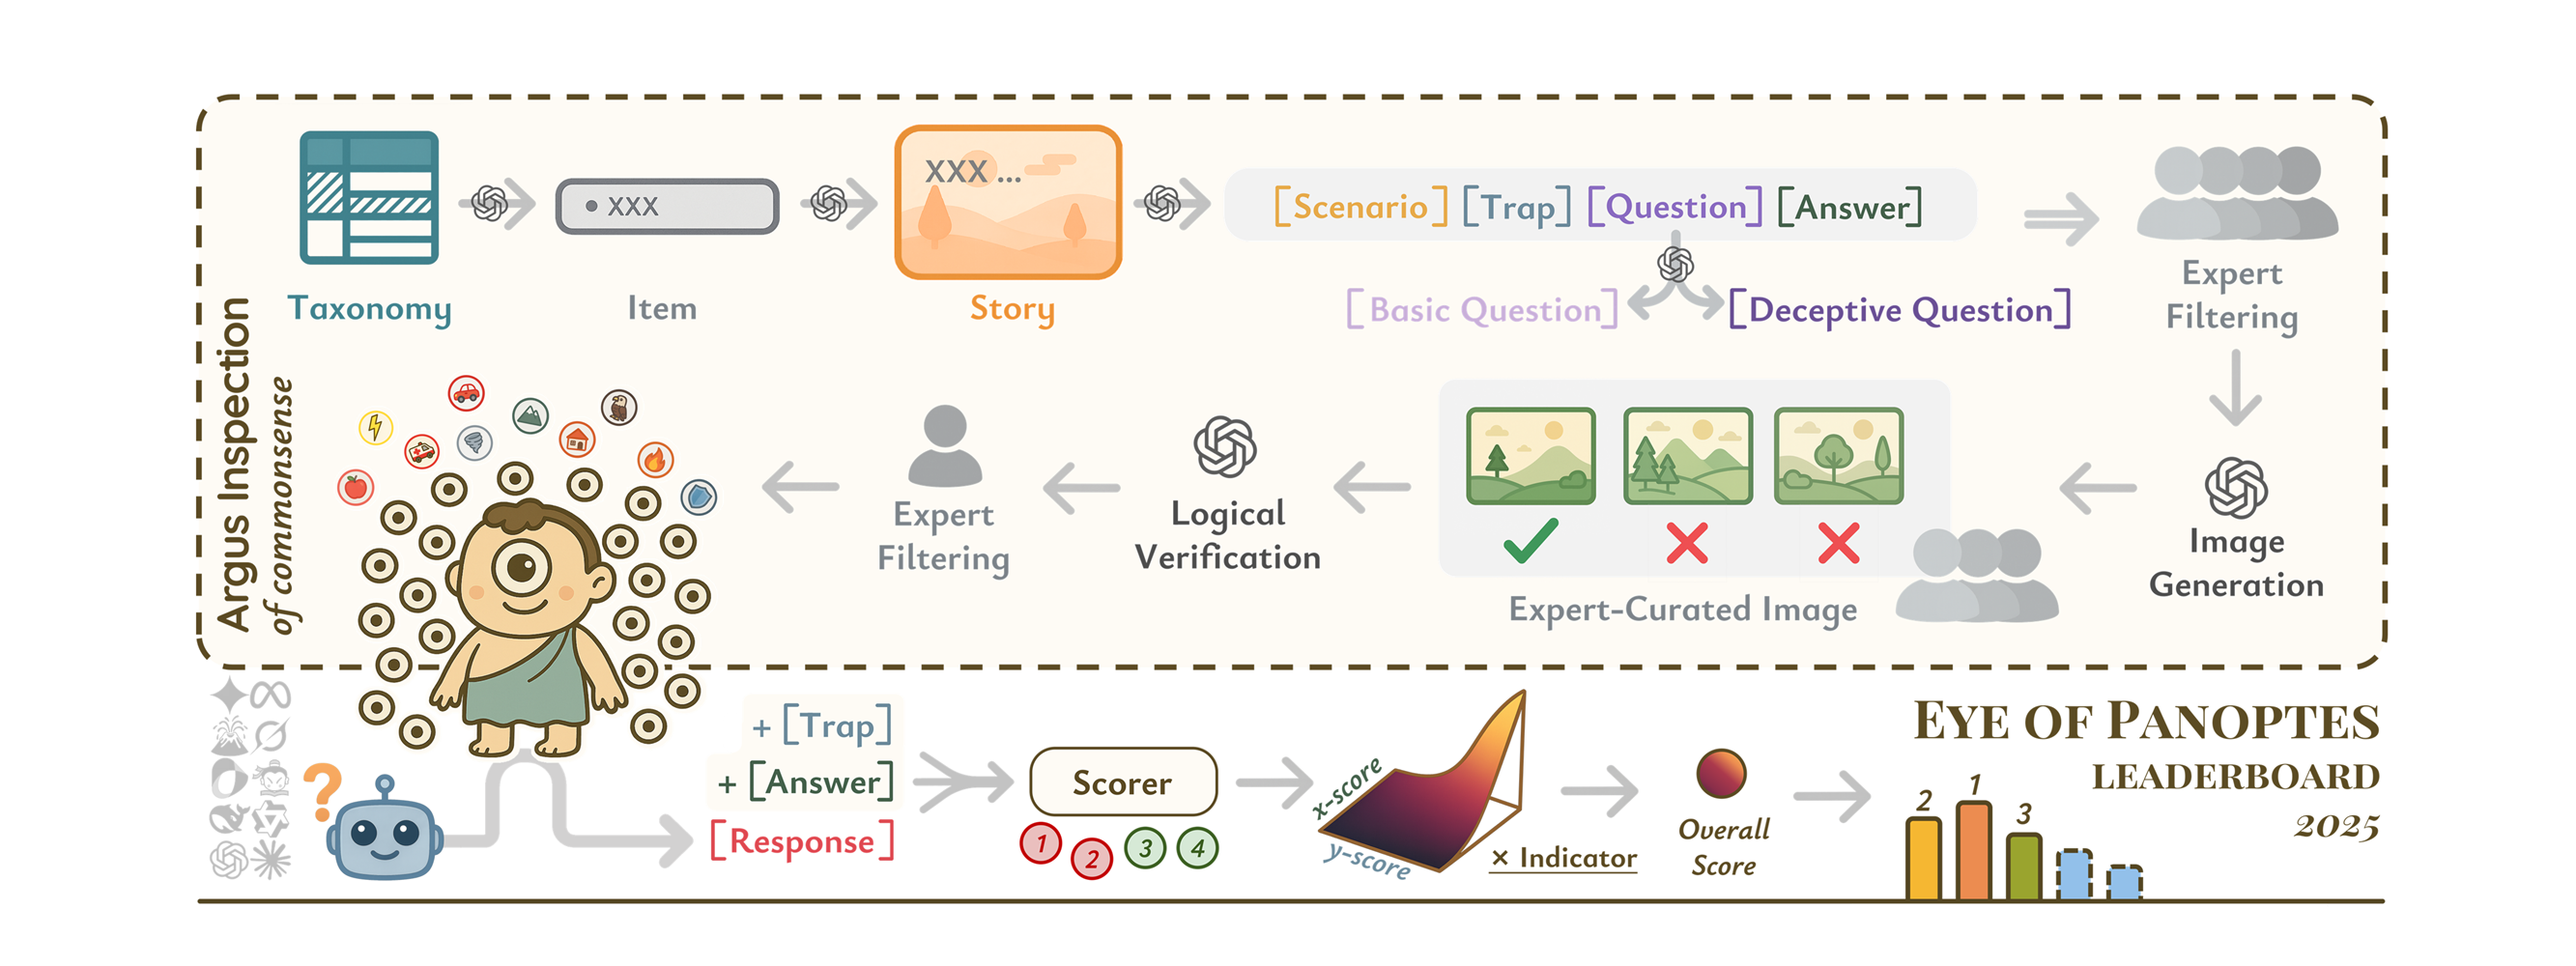
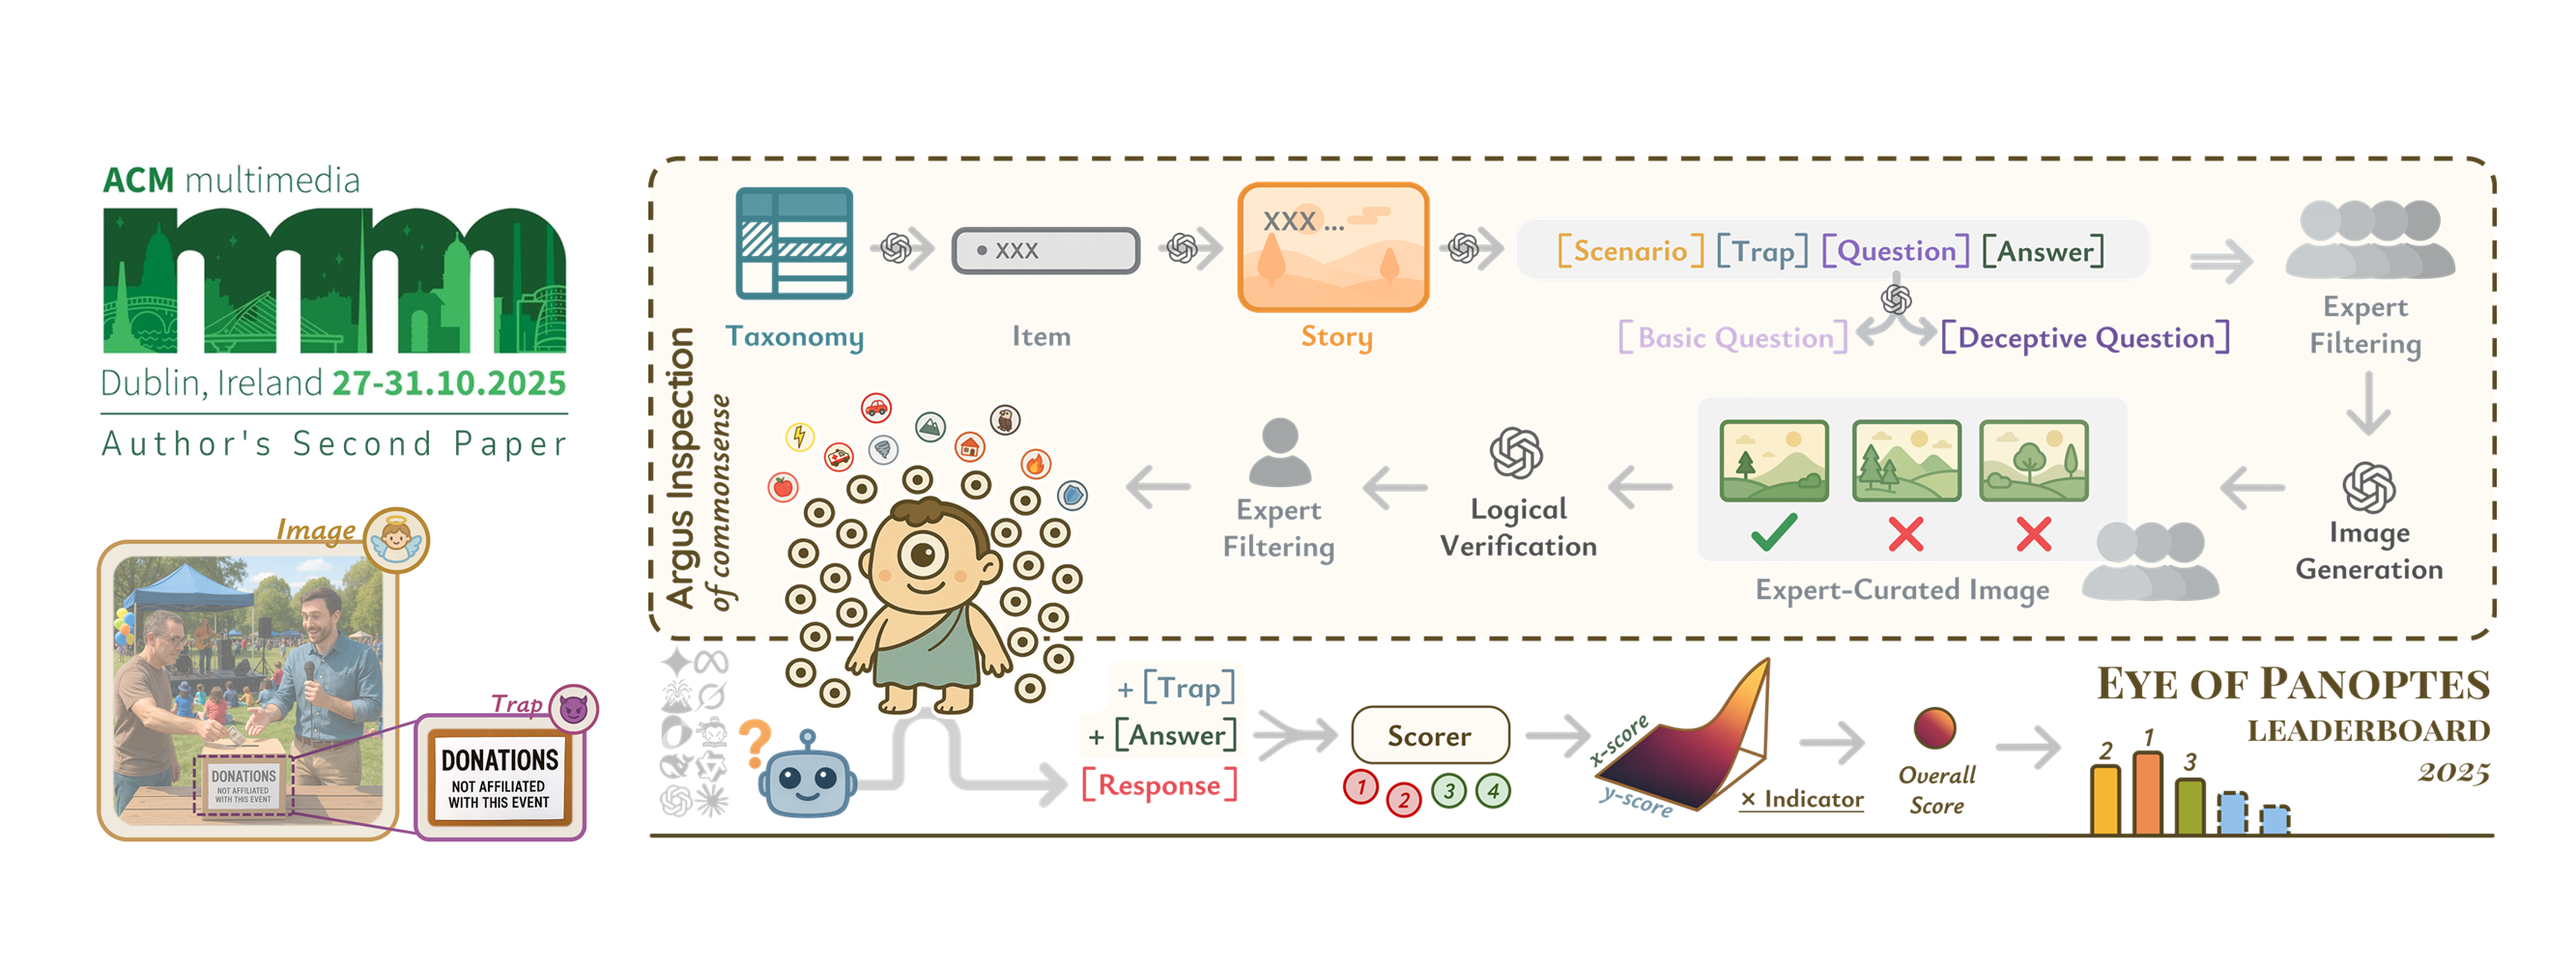
Page Files

Changed region(s): [[0.0311, 0.093, 0.9651, 0.961]]

diff --git a/index.html b/index.html
@@ -352,7 +352,7 @@
                                 <div class="col-sm-4 b-l b-light">
                                     <div class="m-l-xs m-t-xs m-b-sm font-bold">Current Stage</div>
                                     <div class="text-center">
-                                        <div class="text-muted m-l-xs " style="font-size: 12px">Pursuing PhD
+                                        <div class="text-muted m-l-xs " style="font-size: 12px">Interning in Shanghai<br>Pursuing PhD
                                             Opportunities</div>
                                     </div>
                                 </div>
@@ -364,21 +364,21 @@
                                     <div class="m-l-xs m-t-xs m-b-sm font-bold">Education</div>
                                     <div class="text-center">
                                         <div class="text-muted m-l-xs " style="font-size: 12px">MSc in Artificial
-                                            Intelligence<br>BEng in Data Science and Big Data Technology</div>
+                                            Intelligence, University of Hong Kong<br>BEng in Data Science and Big Data Technology, Northeastern University</div>
                                     </div>
                                 </div>
                                 <div class="col-sm-4 b-l b-light">
                                     <div class="m-l-xs m-t-xs m-b-sm font-bold">Publications</div>
                                     <div class="text-center">
                                         <div class="text-muted m-l-xs " style="font-size: 12px">1 Accepted by ACL
-                                            2025<br>7 Under Review</div>
+                                            2025<br>1 Accepted by ACM MM 2025<br>1 Technical Report authored as Core Contributor<br>6 Under Review</div>
                                     </div>
                                 </div>
                                 <div class="col-sm-4 b-l b-light">
                                     <div class="m-l-xs m-t-xs m-b-sm font-bold">Research Interests</div>
                                     <div class="text-center">
                                         <div class="text-muted m-l-xs " style="font-size: 12px">Multimodal Large
-                                            Language Models<br>Reinforcement Learning</div>
+                                            Language Models<br>Reinforcement Learning<br>Safe and Trustworthy AI<br>...</div>
                                     </div>
                                 </div>
                             </div>
@@ -575,7 +575,7 @@
                                     programming, demonstrates a sustained passion for research and innovation, excels
                                     under pressure with strong awareness of time constraints, and exhibits patience,
                                     humility, and a keen aptitude for identifying and solving problems. His interests
-                                    focus on Multimodal Large Language Models and Reinforcement Learning. Currently, he
+                                    focus on Multimodal Large Language Models, Reinforcement Learning, and Safe and Trustworthy AI. Currently, he
                                     is pursuing PhD opportunities to further contribute to these domains.
                                 </p>
                             </div>
@@ -719,7 +719,7 @@
 
                                         <div class="single-post panel panel-large box-shadow-wrap-normal">
                                             <div class="index-post-img">
-                                                <a href="https://arxiv.org/abs/2502.15806" target="_blank">
+                                                <a href="https://aclanthology.org/2025.findings-acl.408/" target="_blank">
                                                     <div class="item-thumb lazy" style="background-image: url(./figures/cover_mousetrap.png); width: 100%; padding-top: 37.5%; 
                                     background-repeat: no-repeat; background-position: center;background-size: cover;">
                                                     </div>
@@ -771,7 +771,7 @@
                                                 <div class="post_title_wrapper">
                                                     <h2 class="m-t-xs index-post-title text-title">
 
-                                                        [Under Review] Argus Inspection: Do Multimodal Large Language
+                                                        [ACM Multimedia 2025] Argus Inspection: Do Multimodal Large Language
                                                         Models
                                                         Possess the
                                                         Eye of Panoptes?
@@ -788,7 +788,7 @@
                                                     Wang</p>
                                                 <p style="text-align: justify;"><span
                                                         class="right-small-icons m-r-sm"><i
-                                                            data-feather="message-square"></i></span>arXiv Preprint 2025
+                                                            data-feather="message-square"></i></span>Proceedings of the 33rd ACM International Conference on Multimedia
                                                 </p>
                                             </div><!--text-muted-->
                                         </div><!--panel/panel-small-->
@@ -864,32 +864,35 @@
 
 
 
-
                                     <div>
-                                        <div class="single-post panel-small box-shadow-wrap-normal">
-                                            <div class="post-meta wrapper-lg padder-v">
+                                        <div class="panel-small single-post box-shadow-wrap-normal">
+                                            <div class="index-post-img-small post-feature index-img-small">
+                                                <a href="https://arxiv.org/abs/2508.01741" target="_blank">
+                                                    <div class="item-thumb-small lazy"
+                                                        style="width: 100%; padding-top: 100%; background-repeat: no-repeat; background-position: center; background-size: cover;">
+                                                        <img src="./figures/cover_seajailbreak.png" class="post-pic lazy"
+                                                            style="width: 100%; height: 100%; object-fit: cover;">
+                                                    </div>
+                                                </a>
+                                            </div>
+                                            <div class="post-meta wrapper-lg padder-v"
+                                                style="display: flex; flex-direction: column; justify-content: center; height: 100%;">
                                                 <div class="post_title_wrapper">
                                                     <h2 class="m-t-xs index-post-title text-title">
-                                                        [Under Review] Simulated Ensemble Attack: Transferable Jailbreaks Across Fine-tuned Vision-Language Models
+                                                        [Under Review] Simulated Ensemble Attack: Transferring Jailbreaks Across Fine-tuned Vision-Language Models
                                                     </h2>
                                                 </div>
                                                 <p style="text-align: justify;"><span
                                                         class="m-r-sm right-small-icons"><i
-                                                            data-feather="user"></i></span>Ruofan Wang, Xin Wang, <b>Yang Yao</b>, Xuan Tong, Xingjun Ma, Yu-Gang Jiang
+                                                            data-feather="user"></i></span>Ruofan Wang, Xin Wang, <b>Yang Yao</b>, Xuan Tong, Xingjun Ma
                                                 </p>
                                                 <p style="text-align: justify;"><span
                                                         class="right-small-icons m-r-sm"><i
-                                                            data-feather="message-square"></i></span>Under Review and
-                                                    Preprint Not Released
+                                                            data-feather="message-square"></i></span>arXiv Preprint 2025
                                                 </p>
-                                            </div>
-                                        </div>
+                                            </div><!--text-muted-->
+                                        </div><!--panel/panel-small-->
                                     </div>
-
-
-
-
-
 
 
 
@@ -908,7 +911,7 @@
                                                 <p style="text-align: justify;"><span
                                                         class="m-r-sm right-small-icons"><i
                                                             data-feather="user"></i></span>###, ###, ###,
-                                                    <b>Yang Yao</b>, ###, ###, ###
+                                                    <b>Yang Yao</b>, ###, ###
                                                 </p>
                                                 <p style="text-align: justify;"><span
                                                         class="right-small-icons m-r-sm"><i
@@ -972,7 +975,7 @@
                                                 <p style="text-align: justify;"><span
                                                         class="m-r-sm right-small-icons"><i
                                                             data-feather="user"></i></span>###, ###, ###, 
-                                                    ###, ###, ###, <b>Yang Yao</b>, ###, ###, ###
+                                                    ###, ###, ###, <b>Yang Yao</b>, ###, ###
                                                 </p>
                                                 <p style="text-align: justify;"><span
                                                         class="right-small-icons m-r-sm"><i
@@ -1440,11 +1443,11 @@
                 <h5 class="widget-title m-t-none text-md">Pub Sum</h5>
                 <ul class="list-group box-wrap-normal">
                     <li class="list-group-item text-second"><span class="blog-info-icons"><i
-                                data-feather="feather"></i></span><span class="badge pull-right">8</span>Paper Num</li>
+                                data-feather="feather"></i></span><span class="badge pull-right">9</span>Paper Num</li>
                     <li class="list-group-item text-second"><span class="blog-info-icons"><i
-                                data-feather="flag"></i></span><span class="badge pull-right">1</span>Accepted</li>
+                                data-feather="flag"></i></span><span class="badge pull-right">2</span>Accepted</li>
                     <li class="list-group-item text-second"><span class="blog-info-icons"><i
-                                data-feather="loader"></i></span><span class="badge pull-right">7</span>Under Review
+                                data-feather="loader"></i></span><span class="badge pull-right">6</span>Under Review
                     </li>
                     <li class="list-group-item text-second"><span class="blog-info-icons"><i
                                 data-feather="hash"></i></span><span class="badge pull-right">2</span>First Author</li>
@@ -1610,79 +1613,7 @@
 
 
 
-
                 <div class="a_box">
-                    <h5>
-                        <font color=#FFFFFF size=3>The 214th University Congregation, Faculty of Science
-                        </font>
-                    </h5>
-                    <h5>
-                        <font color=#E3E3E3>Jul 23, 2025<br>The University of Hong Kong</font>
-                    </h5>
-                </div>
-
-
-
-                <div class="b_box">
-                    <h5>
-                        <font color=#FFFFFF size=3><a href="https://2025.aclweb.org/" target="_blank">The 63rd Annual
-                                Meeting of the Association for Computational Linguistics</a>
-                        </font>
-                    </h5>
-                    <h5>
-                        <font color=#E3E3E3>Jul 27 to Aug 1, 2025<br>Vienna, Austria</font>
-                    </h5>
-                </div>
-
-
-
-                <div class="c_box">
-                    <h5>
-                        <font color=#FFFFFF size=3>The 40th Annual AAAI Conference on Artificial Intelligence Submission
-                            Deadline
-                        </font>
-                    </h5>
-                    <h5>
-                        <font color=#FFFFFF>Aug 1, 2025 (UTC-0)</font>
-
-                        <div id="CountMsg" class="HotDate">
-                            <span id="t_day"> </span>
-                            <span id="s_day"> d&nbsp;</span>
-                            <span id="t_hour"> </span>
-                            <span id="s_hour"> h&nbsp;</span>
-                            <span id="t_min"> </span>
-                            <span id="s_min"> m&nbsp;</span>
-                            <span id="t_sec"> </span>
-                            <span id="s_sec"> s&nbsp;</span>
-                        </div>
-                    </h5>
-
-
-                    <script type="text/javascript">
-                        function getRTime() {
-                            var EndTime = Date.UTC(2025, 7, 1, 23, 59, 0);
-                            var Now = new Date();
-                            var NowTime = Now.getTime() + (Now.getTimezoneOffset() * 60000);
-                            var t = EndTime - NowTime;
-
-                            var d = Math.floor(t / 1000 / 60 / 60 / 24);
-                            var h = Math.floor(t / 1000 / 60 / 60 % 24);
-                            var m = Math.floor(t / 1000 / 60 % 60);
-                            var s = Math.floor(t / 1000 % 60);
-
-                            document.getElementById("t_day").innerHTML = d;
-                            document.getElementById("t_hour").innerHTML = h;
-                            document.getElementById("t_min").innerHTML = m;
-                            document.getElementById("t_sec").innerHTML = s;
-                        }
-                        setInterval(getRTime, 1000);
-                    </script>
-                </div>
-
-
-
-                
-                <div class="d_box">
                     <h5>
                         <font color=#FFFFFF size=3>The 14th International Conference on Learning Representations Submission Deadline
                         </font>
@@ -1724,6 +1655,16 @@
                     </script>
                 </div>
 
+
+                <div class="b_box">
+                    <h5>
+                        <font color=#FFFFFF size=3><a href="https://2025.aclweb.org/" target="_blank">The 33rd ACM International Conference on Multimedia</a>
+                        </font>
+                    </h5>
+                    <h5>
+                        <font color=#E3E3E3>Oct 27 to 31, 2025<br>Dublin, Ireland</font>
+                    </h5>
+                </div>
 
                 <!--
 
